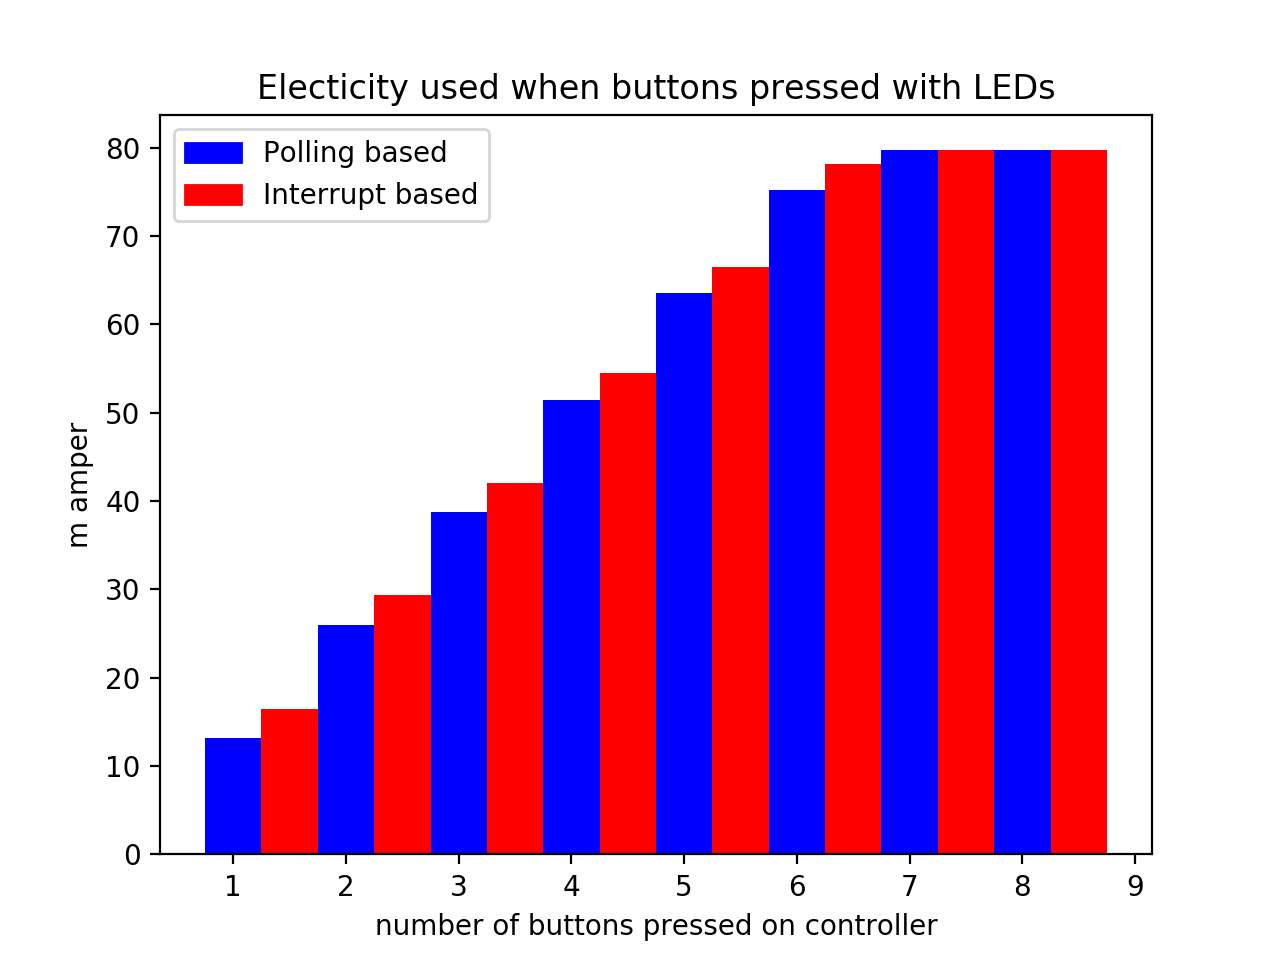
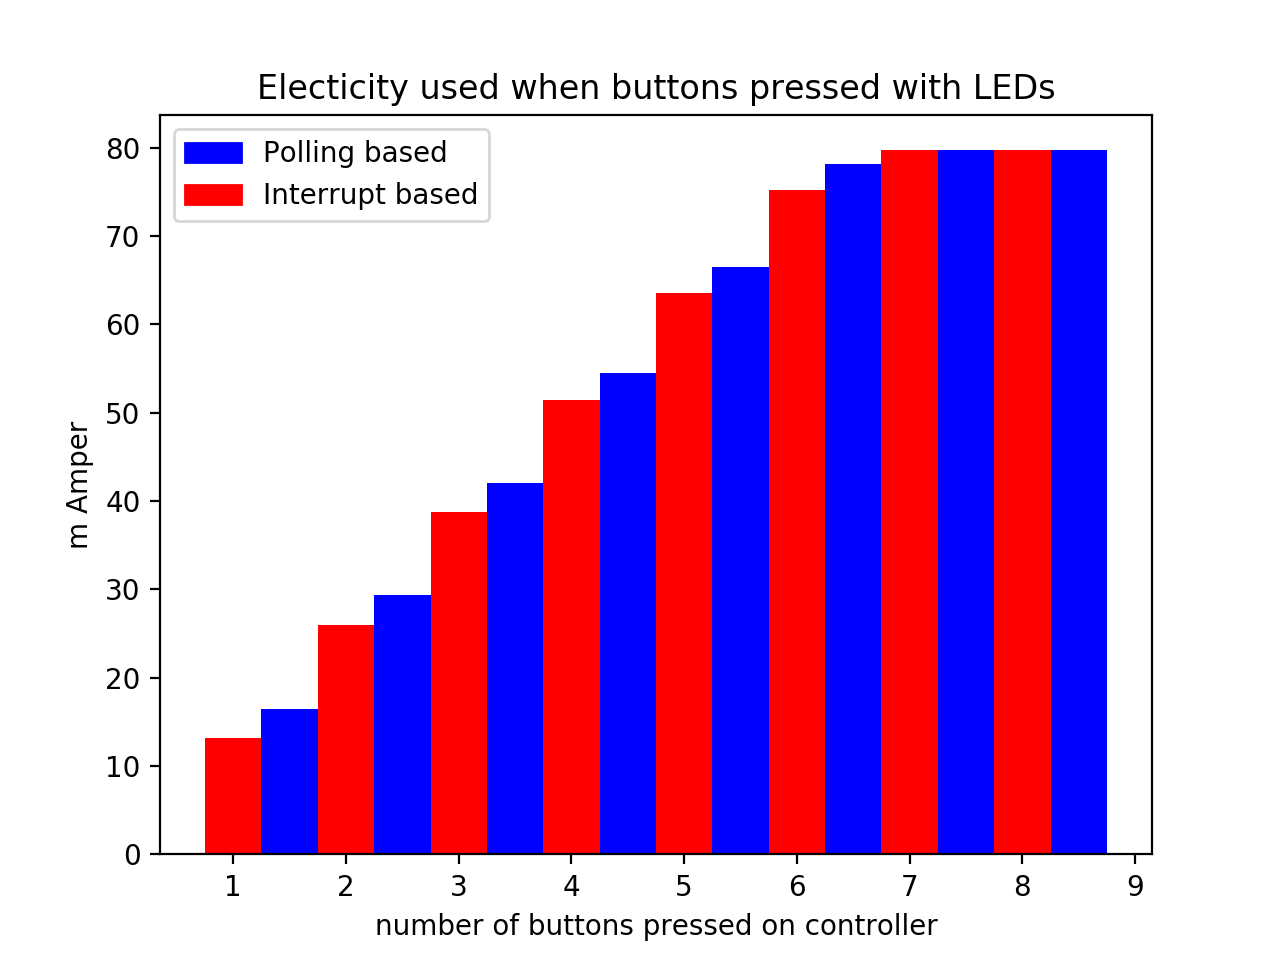
switched up the wrongly set list in figure 2

diff --git a/exercise1/Plotting/main.py b/exercise1/Plotting/main.py
@@ -24,10 +24,10 @@ blue_patch = mpatches.Patch(color='blue', label='Polling based')
 red_patch = mpatches.Patch(color='red', label='Interrupt based')
 plt.legend(handles=[blue_patch, red_patch])
 plt.title('Electicity used when buttons pressed with LEDs')
-plt.ylabel('m amper')
+plt.ylabel('m Amper')
 plt.xlabel('number of buttons pressed on controller')
-ax.bar(t+0.5, values_pollingbased, width=0.5, color='r', label='Interupt', align='center')
-ax.bar(t, values_interruptbased, width=0.5, color='b', label='Polling', align='center')
+ax.bar(t, values_interruptbased, width=0.5, color='r', label='Interupt', align='center')
+ax.bar(t+0.5, values_pollingbased, width=0.5, color='b', label='Polling', align='center')
 
 plt.show()
 for value in values_avragebtn_pollingbased:
